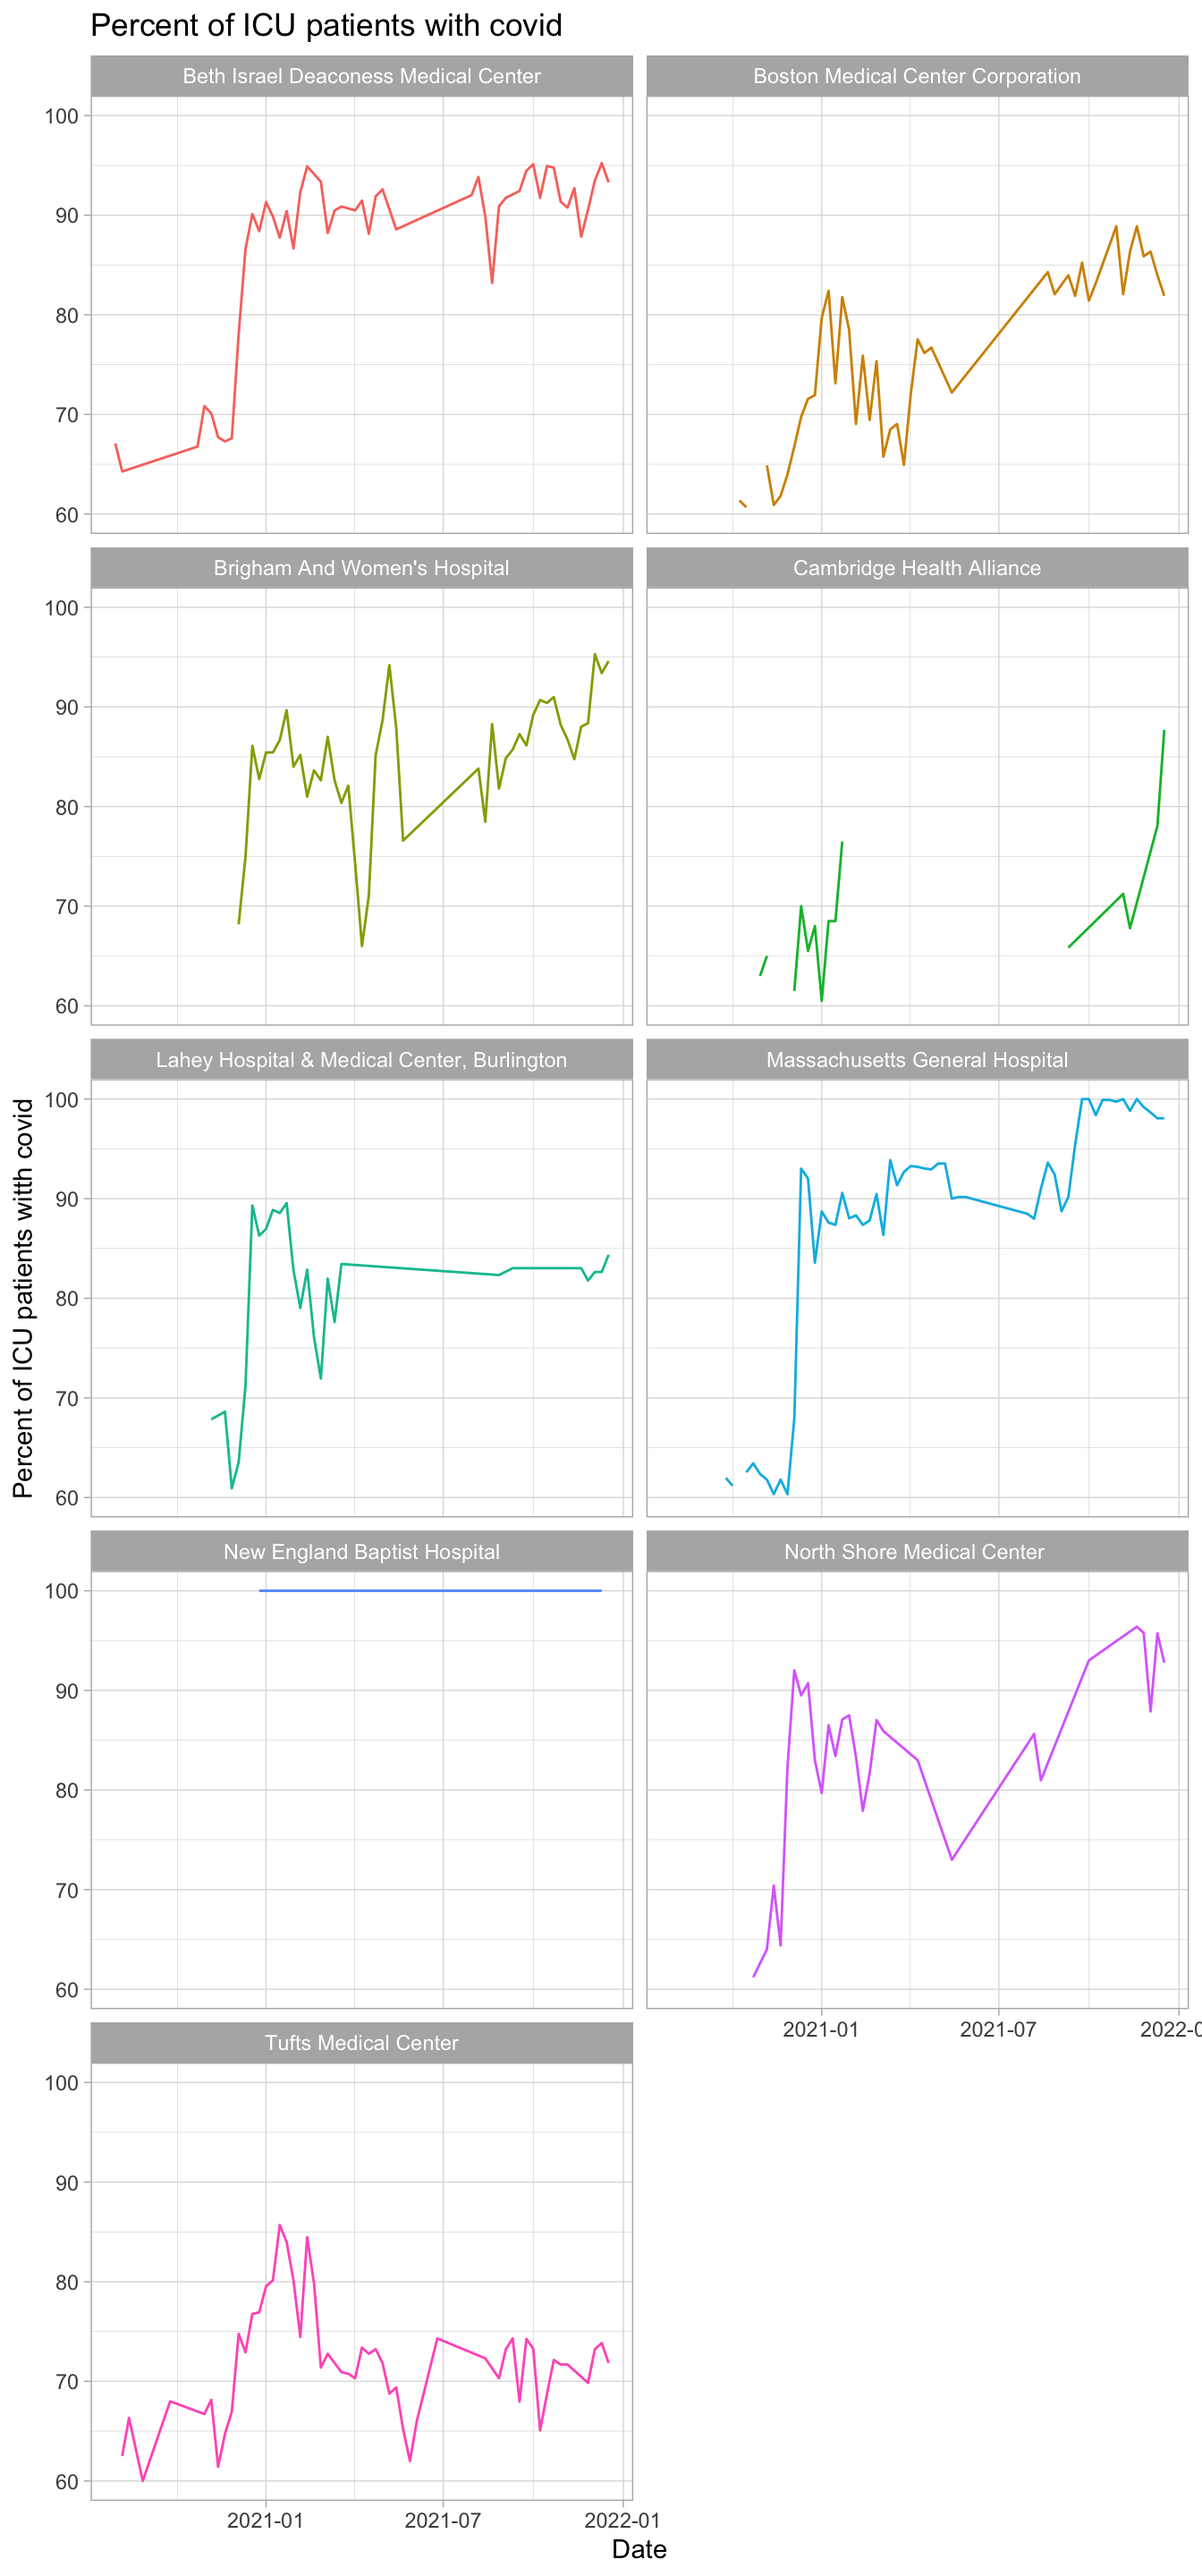
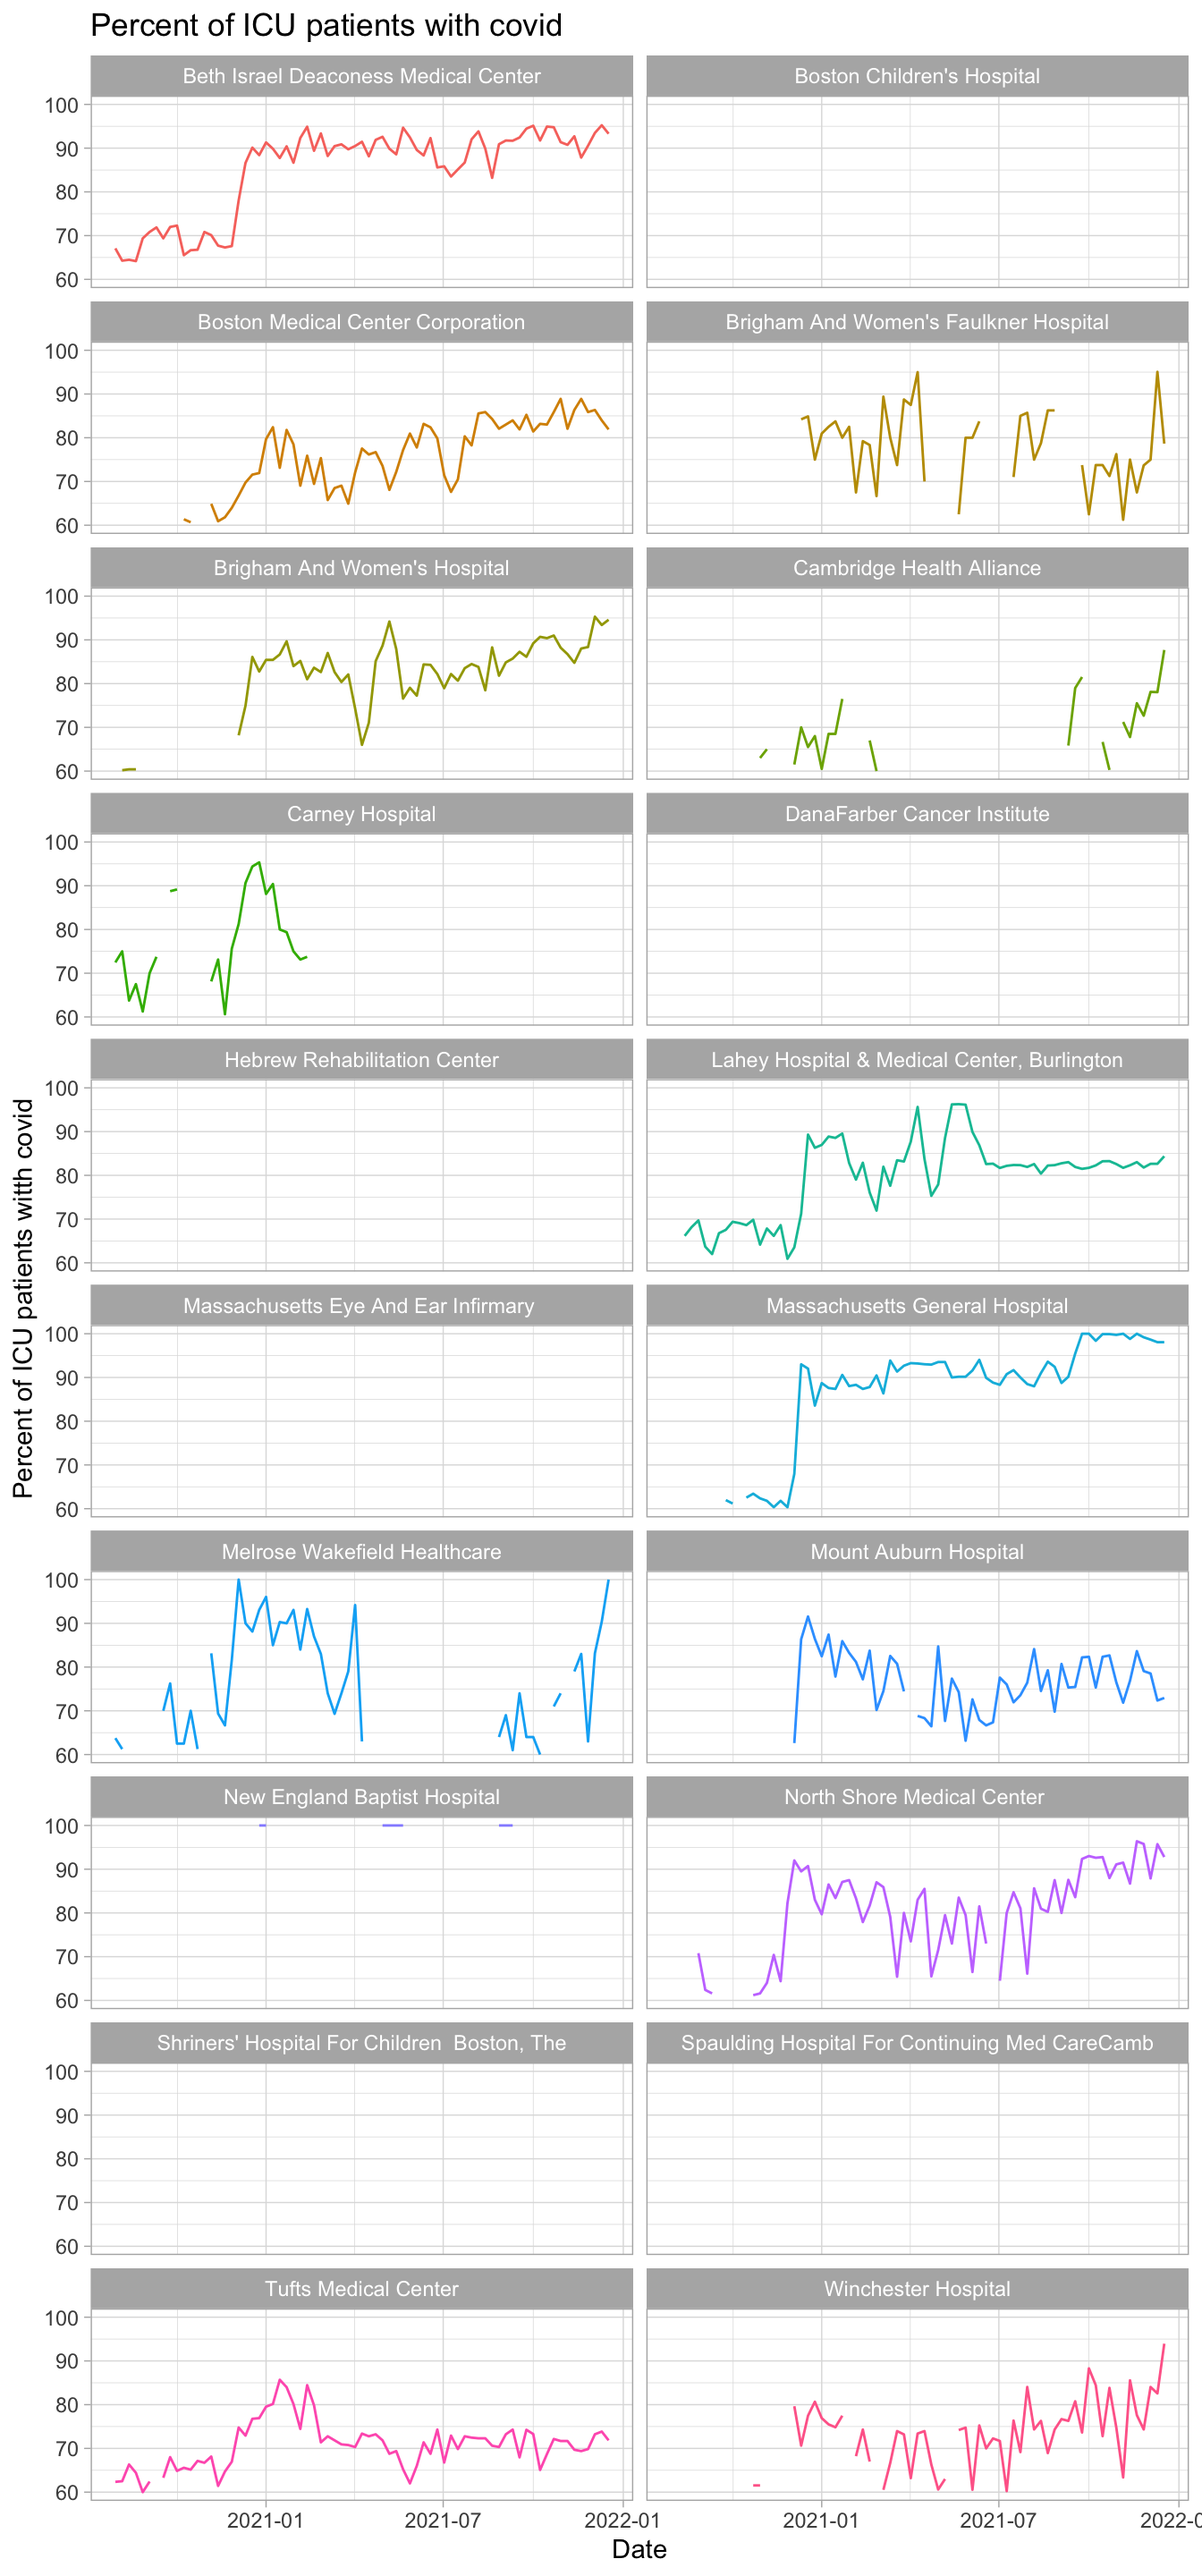
updated data

diff --git a/docs/index.html b/docs/index.html
@@ -320,16 +320,28 @@ $(document).ready(function () {
 <td align="right">67</td>
 </tr>
 <tr class="odd">
+<td align="left">Boston Children’s Hospital</td>
+<td align="right">6</td>
+<td align="right">107</td>
+<td align="right">94</td>
+</tr>
+<tr class="even">
 <td align="left">Boston Medical Center Corporation</td>
 <td align="right">14</td>
 <td align="right">98</td>
 <td align="right">85</td>
 </tr>
-<tr class="even">
+<tr class="odd">
 <td align="left">Lahey Hospital &amp; Medical Center, Burlington</td>
 <td align="right">9</td>
 <td align="right">55</td>
 <td align="right">84</td>
+</tr>
+<tr class="even">
+<td align="left">Mount Auburn Hospital</td>
+<td align="right">9</td>
+<td align="right">25</td>
+<td align="right">64</td>
 </tr>
 </tbody>
 </table>

diff --git a/docs/individualhospitals.html b/docs/individualhospitals.html
@@ -311,16 +311,28 @@ $(document).ready(function () {
 <td align="right">67</td>
 </tr>
 <tr class="odd">
+<td align="left">Boston Children’s Hospital</td>
+<td align="right">6</td>
+<td align="right">107</td>
+<td align="right">94</td>
+</tr>
+<tr class="even">
 <td align="left">Boston Medical Center Corporation</td>
 <td align="right">14</td>
 <td align="right">98</td>
 <td align="right">85</td>
 </tr>
-<tr class="even">
+<tr class="odd">
 <td align="left">Lahey Hospital &amp; Medical Center, Burlington</td>
 <td align="right">9</td>
 <td align="right">55</td>
 <td align="right">84</td>
+</tr>
+<tr class="even">
+<td align="left">Mount Auburn Hospital</td>
+<td align="right">9</td>
+<td align="right">25</td>
+<td align="right">64</td>
 </tr>
 </tbody>
 </table>
